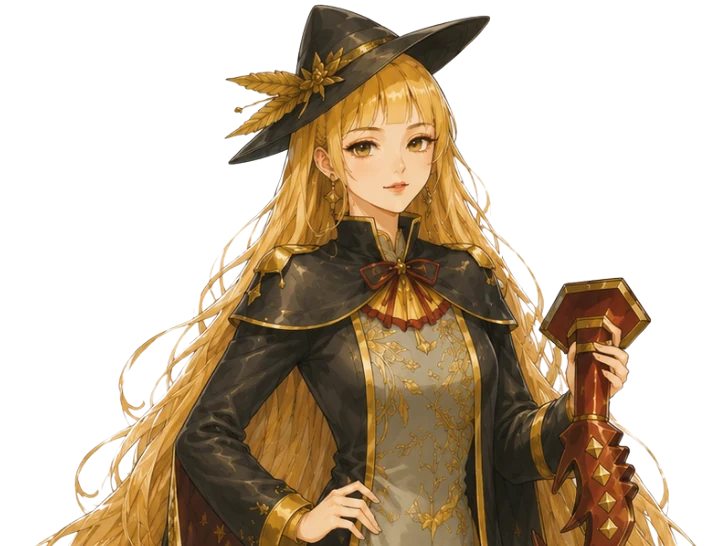
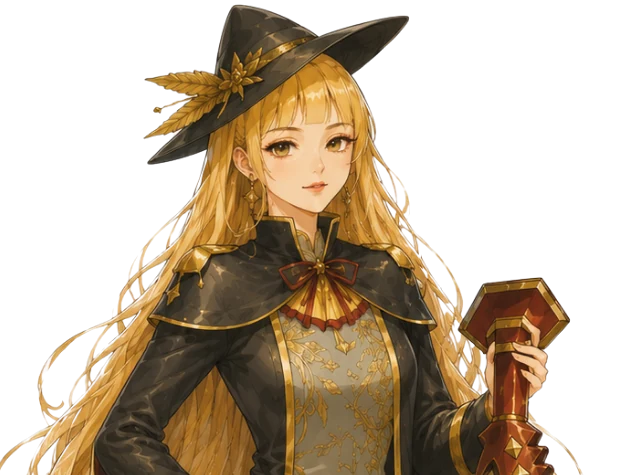
黄色い星・黄色い人(女性)の胸像を 1.15 倍に拡大して切り出す (#213)
赤い月(男性)と同じく BUST_ZOOM に追加し、この2ファイルだけを作り直した。

diff --git a/scripts/generateSealCutouts.py b/scripts/generateSealCutouts.py
@@ -128,6 +128,8 @@ BUST_KEEP_MIN: dict[tuple[int, str], float] = {
 # 2026-11-22: 赤い月(男性)が小さく見えるとの要望で 1.15 倍にした。
 BUST_ZOOM: dict[tuple[int, str], float] = {
     (8, '-male'): 1.15,   # 赤い月(男性)
+    (7, ''): 1.15,        # 黄色い星(女性)。2026-11-22 要望
+    (11, ''): 1.15,       # 黄色い人(女性)。2026-11-22 要望
 }
 
 
